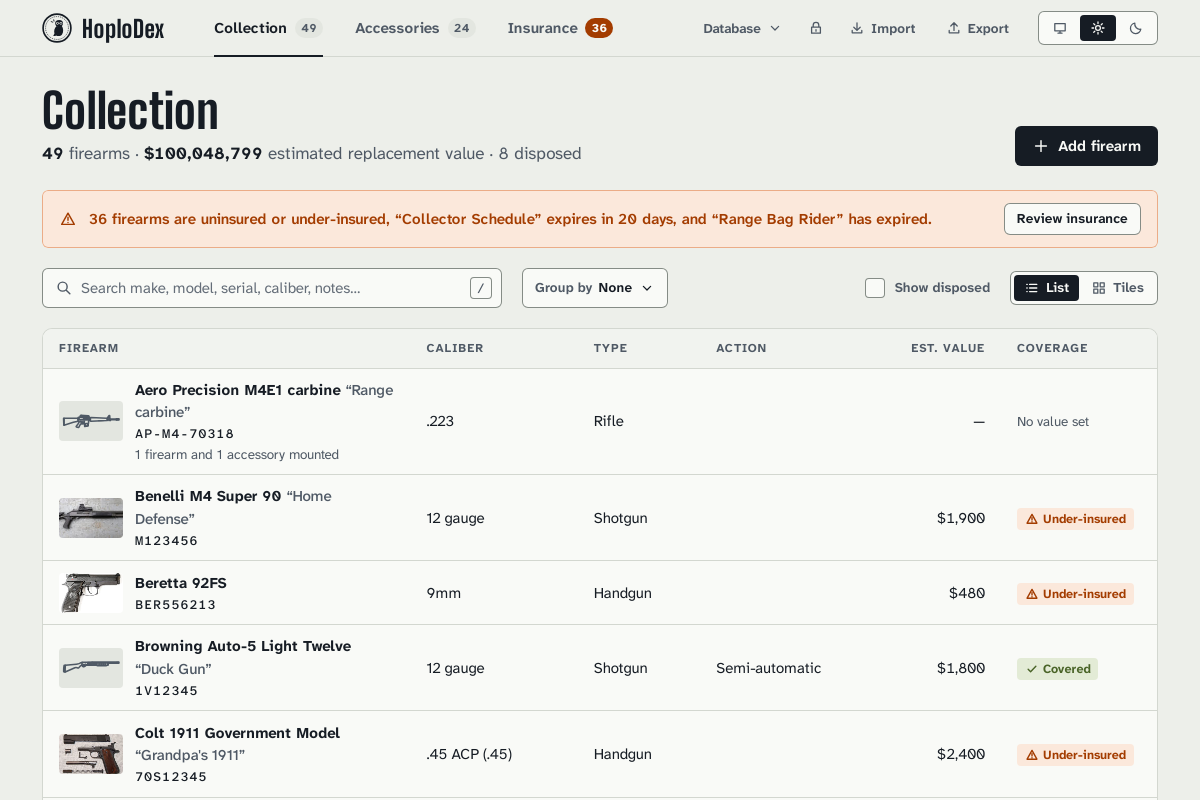
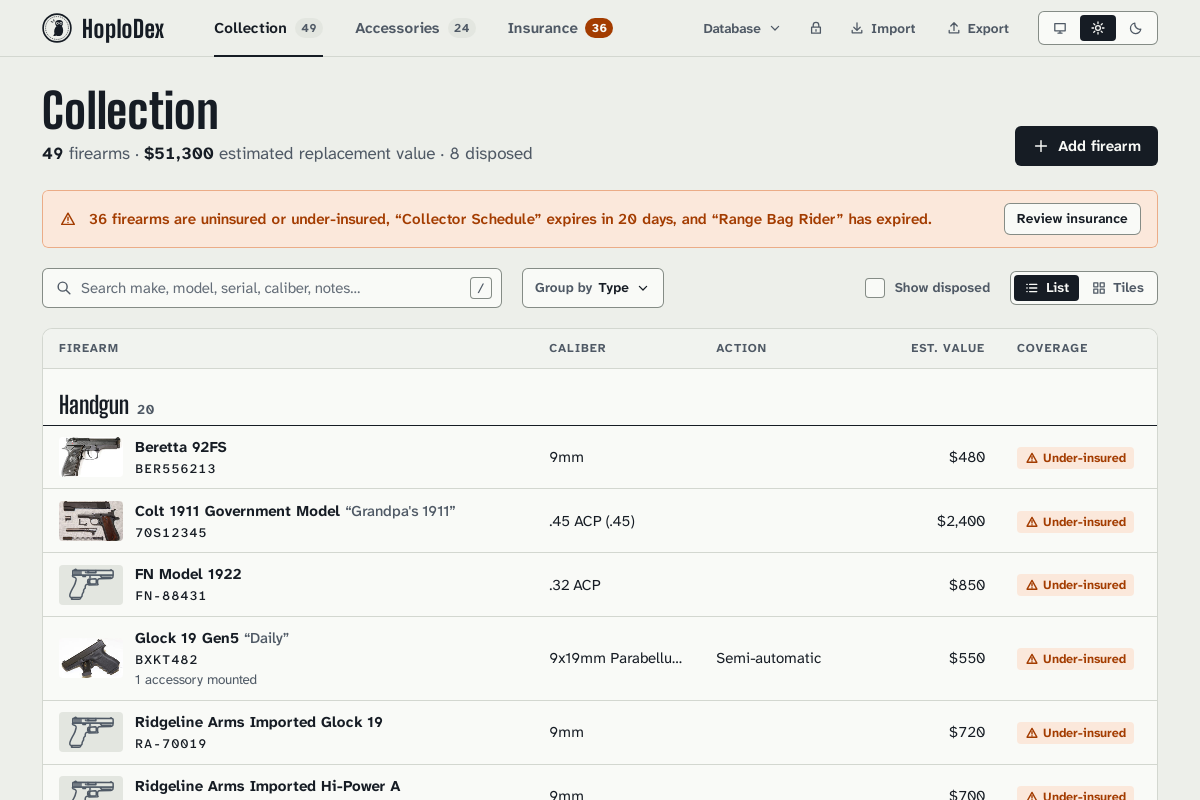
011 T106: the store's collection shot shows only public-domain photos and an ordinary total
Grouped by type, so the OGL-licensed Benelli is out of view; research.md §13
lists each screenshot's photos and their licences.

Claude-Session: https://claude.ai/code/session_01U4e6BAccAawATeftJWCuJS

diff --git a/specs/011-flatpak/tasks.md b/specs/011-flatpak/tasks.md
@@ -432,7 +432,7 @@ The smallest useful increment is a Flatpak a Linux user can keep their collectio
 - [ ] T103 [US5] (decided; same refs): in `e2e/specs/flatpak.e2e.ts`, prove through the real routes: US1-4 and US5-2's saved passphrase lands in the headless keyring (read back with `secret-tool` on the check's bus) and opens without typing; US1-7's "open in another app" reaches the dbusmock OpenURI with a read-only descriptor of the copy; US2-5 is shown in the UI by stopping the keyring (the save is offered as unavailable, as on a `.deb`). Depends on T102
 - [ ] T104 [US3] MEDIUM (partial; `011 US3-6`, `011 FR-014`, `011 FR-023`; the owner's decision): on a host without podman (the guard's host path), `build.sh` (and `checkManifest.mjs`) default `HOPLODEX_FLATPAK_STATE` to a folder next to the throwaway `FLATPAK_USER_DIR` instead of stopping; `check.sh` refuses on a host with a message saying the check is container-only and why (root-made folders, the stand-in buses, Xvfb). DEVELOPMENT.md's "Without podman" and contracts/flatpak-bundle.md say so; tests for both
 - [ ] T105 [US5] MEDIUM (partial; `011 US5-3`, `011 SC-007`; CLAUDE.md memory "Safe tests, not skipped tests"): a Vitest test that runs `build.sh`, `check.sh` and `sources.sh` with the container markers absent and stub `flatpak`, `flatpak-builder` and `dbus-daemon` first on `PATH` that record their calls, asserting each refuses with the guard's message and makes no stub call; a test that `requireCheckEnvironment()` (`e2e/support/flatpak.ts`) refuses when any of its variables is missing; a red check (bypass the guard line once, see the test fail, undo it)
-- [ ] T106 [US4] MEDIUM (partial; `011 US4-4`, `011 FR-017`; constitution Licensing; the owner's decision): retake `flatpak/screenshots/collection.png` so no photo that needs a credit line (`src-tauri/examples/seed-photos/README.md`: CC BY, OGL) is in view and the shown total is ordinary; record in research.md §13 which seed photos each of the five screenshots shows and their licences. The metainfo test stays green
+- [X] T106 [US4] MEDIUM (partial; `011 US4-4`, `011 FR-017`; constitution Licensing; the owner's decision): retake `flatpak/screenshots/collection.png` so no photo that needs a credit line (`src-tauri/examples/seed-photos/README.md`: CC BY, OGL) is in view and the shown total is ordinary; record in research.md §13 which seed photos each of the five screenshots shows and their licences. The metainfo test stays green
 - [X] T107 LOW (contradicts; contracts/tauri-commands.md, data-model.md): add `_Amended_` notes to the `change_passphrase` rows in both: no backup is made before a passphrase change, so only close's, restore's and the upgrade's backup folders are checked
 - [X] T108 LOW (contradicts; contracts/flatpak-bundle.md "Project commands"): add an `_Amended_` note to the `test:flatpak` row: `-- --fresh-install` is a separate run, not an addition to the journey
 - [X] T109 LOW (partial; plan.md Close-out #19; research.md §21; `011 FR-017`, `011 FR-024`): add to T090's #19 comment and, as a dated amendment, to plan.md's Close-out list: each release updates the metainfo's `<release>` date and notes; the `v<version>` tag must carry `flatpak/screenshots/`; the release reviews the pinned flatpak-builder-tools commit and Flathub's linter (`org.flatpak.Builder`, unpinned)

diff --git a/specs/011-flatpak/research.md b/specs/011-flatpak/research.md
@@ -679,6 +679,32 @@ the newest on the day), cloned into `/opt/flatpak-builder-tools` by the
     A test checks every address names a file in the repository. Before the
     first release is tagged, the addresses don't resolve yet, which the
     validator's offline mode doesn't check.
+    _Amended 2026-10-19 (T106; constitution Licensing): no screenshot shows a
+    photo that needs a credit line (`src-tauri/examples/seed-photos/README.md`:
+    CC BY, OGL). The collection shot was the first one to, with the Benelli
+    M4's photo (OGL v3.0) in its second row, and it showed "$100,048,799" as
+    the replacement value, which is the seed's one firearm at the $99,999,999
+    maximum (#67). It is retaken in the walk's own setting (the dev
+    container's Xvfb, 1200 x 800, light theme) from a throwaway sandbox with
+    the seed, where that firearm's estimated replacement value was edited to
+    $2,500 before the shot (the total reads $51,300; the counts are
+    unchanged), grouped by Type so the Handgun group opens the list and the
+    shotgun, with the Benelli, is below it. The seed is unchanged. What each
+    shot shows, with the photos' licences:
+    - `chooser.png`: no photo.
+    - `collection.png`: the thumbnails of the Beretta 92FS
+      (`beretta-92fs-atf.jpg`, public domain, US Government), the Colt 1911
+      (`1911a1-field-stripped.jpg`, public domain, PD-self) and the Glock 19
+      (`glock-19-gen3.jpg`, public domain, PD-self); the others in view
+      (FN, Ridgeline Arms) have the type's drawing, not a photo.
+    - `record.png`: the Glock 19's photos, `glock-19-gen3.jpg` (public
+      domain, PD-self; the large one), and in the strip `glock-19-gen4-fde.jpg`
+      (CC0 1.0) and `glock-19-atf.jpg` (public domain, US Government).
+    - `document-preview.png`: no photo (the Dead Air Sandman-K has none).
+    - `accessories.png`: no photo from the seed set; the Leupold's is a
+      generated gradient.
+    A retake of any of them must keep to this list: a photo that needs a
+    credit line stays out of view._
   - `share/icons/hicolor/<size>x<size>/apps/io.github.exodious.HoploDex.png`
     at 32, 64, 128, 256 and 512, copied from `src-tauri/icons/`, which
     `npm run icons` generates from `tools/icons/AppIcon.tsx`, so the program
